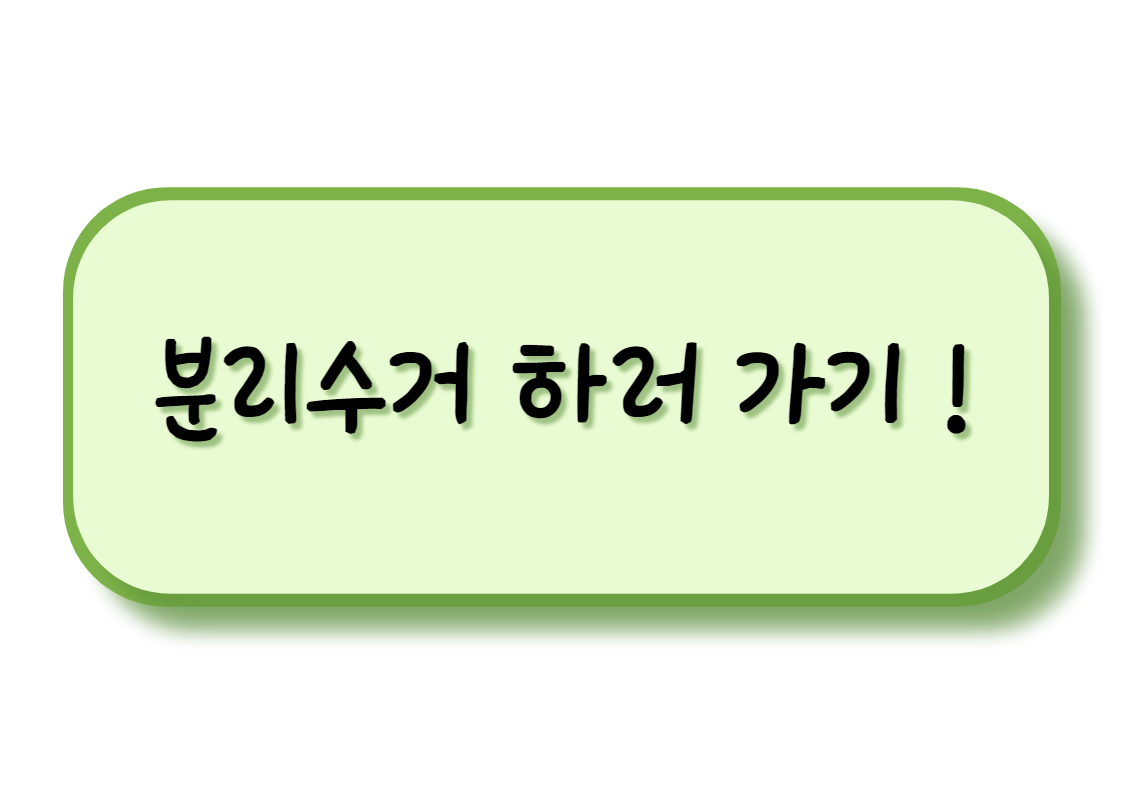
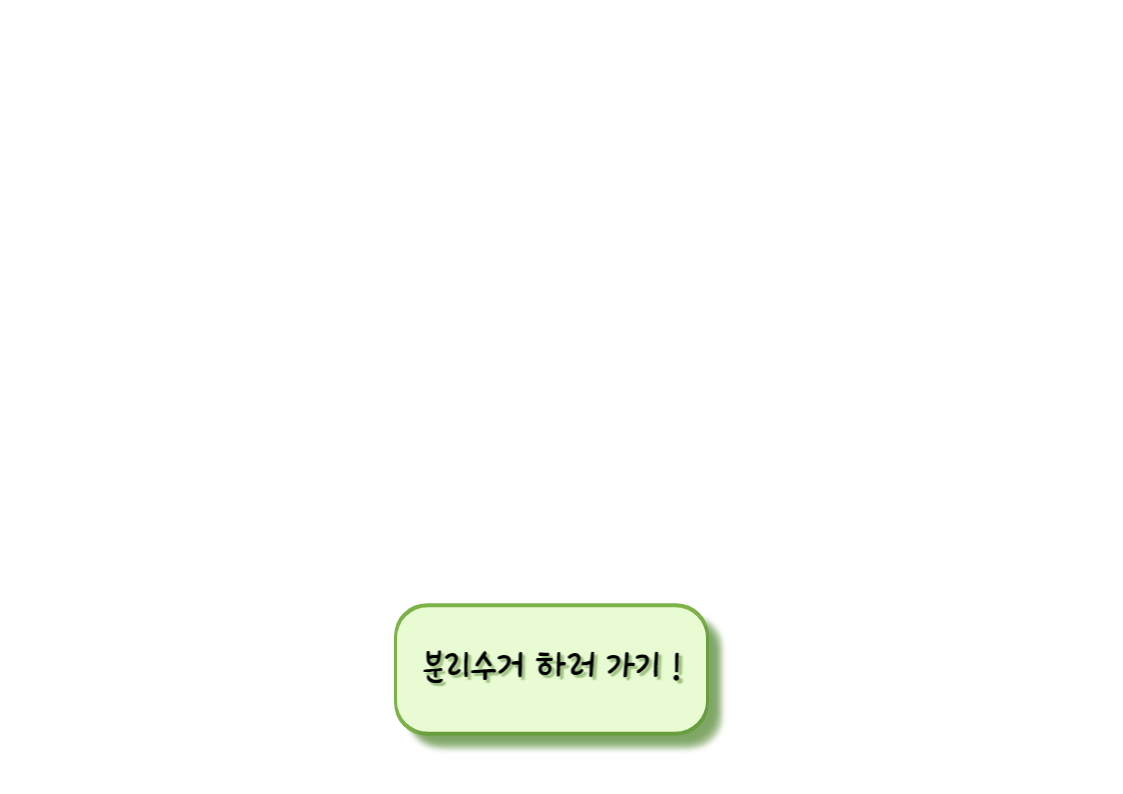
[S07P31D206-462] refactor - 해상도 변경에 따른 캔버스 크기 수정
Former-commit-id: 24fda686043ad5407752d6d0191ef0e3b90a4a40
Former-commit-id: 115b58521e07a557886e909cb2a37e83da72d76d

diff --git a/FE/green-earth/src/components/GamePage/GameRecycle.js b/FE/green-earth/src/components/GamePage/GameRecycle.js
@@ -27,8 +27,8 @@ export const GameRecycle = () => {
   //캔버스 관련 변수
 
   //가로 세로
-  const canvasWidth = 992;
-  const canvasHeight = 576;
+  const canvasWidth = 936;
+  const canvasHeight = 560;
 
   //현재 페이지
   const [nowPage, setnowPage] = useState("main");
@@ -43,56 +43,56 @@ export const GameRecycle = () => {
     {
       name: "파스퇴르",
       current: [0, 0], //현재좌표
-      loc1: [51, 42], //좌측 상단 모서리 좌표
-      loc2: [118, 228], //우측 하단 모서리 좌표
+      loc1: [50, 40], //좌측 상단 모서리 좌표
+      loc2: [125, 250], //우측 하단 모서리 좌표
       answer: 0,
       success: false,
     },
     {
       name: "아이시스",
       current: [0, 0], //현재좌표
-      loc1: [190, 100], //좌측 상단 모서리 좌표
-      loc2: [250, 250], //우측 하단 모서리 좌표
+      loc1: [165, 80], //좌측 상단 모서리 좌표
+      loc2: [220, 270], //우측 하단 모서리 좌표
       answer: 0,
       success: false,
     },
     {
       name: "떡볶이",
       current: [0, 0], //현재좌표
-      loc1: [290, 115], //좌측 상단 모서리 좌표
-      loc2: [440, 265], //우측 하단 모서리 좌표
+      loc1: [270, 120], //좌측 상단 모서리 좌표
+      loc2: [425, 255], //우측 하단 모서리 좌표
       answer: 1,
       success: false,
     },
     {
       name: "자일리톨",
       current: [0, 0], //현재좌표
-      loc1: [525, 25], //좌측 상단 모서리 좌표
-      loc2: [600, 146], //우측 하단 모서리 좌표
+      loc1: [485, 20], //좌측 상단 모서리 좌표
+      loc2: [560, 145], //우측 하단 모서리 좌표
       answer: 0,
       success: false,
     },
     {
       name: "자껍",
       current: [0, 0], //현재좌표
-      loc1: [640, 45], //좌측 상단 모서리 좌표
-      loc2: [755, 105], //우측 하단 모서리 좌표
+      loc1: [610, 40], //좌측 상단 모서리 좌표
+      loc2: [715, 125], //우측 하단 모서리 좌표
       answer: 0,
       success: false,
     },
     {
       name: "알약",
       current: [0, 0], //현재좌표
-      loc1: [590, 220], //좌측 상단 모서리 좌표
-      loc2: [680, 265], //우측 하단 모서리 좌표
+      loc1: [560, 210], //좌측 상단 모서리 좌표
+      loc2: [690, 270], //우측 하단 모서리 좌표
       answer: 1,
       success: false,
     },
     {
       name: "좋은 물",
       current: [0, 0], //현재좌표
-      loc1: [835, 70], //좌측 상단 모서리 좌표
-      loc2: [900, 260], //우측 하단 모서리 좌표
+      loc1: [785, 70], //좌측 상단 모서리 좌표
+      loc2: [850, 255], //우측 하단 모서리 좌표
       answer: 1,
       success: false,
     },
@@ -130,12 +130,12 @@ export const GameRecycle = () => {
   const mainPage = (ctx) => {
     //로고 그리기
     let mainlogo = new Image();
-    mainlogo.src = "/assets/games/main/recycle_cha.png";
-    ctx.drawImage(mainlogo, 100, 0, canvasWidth - 200, canvasHeight - 200);
+    mainlogo.src = "/assets/games/main/recycleMainLogo.png";
+    ctx.drawImage(mainlogo, 0, 0, canvasWidth, canvasHeight);
 
     //게임 설명
     let subtitle = new Image();
-    subtitle.src = "/assets/games/main/subtitle.png";
+    subtitle.src = "/assets/games/main/recycleDisc.png";
     ctx.drawImage(subtitle, 0, 0, canvasWidth, canvasHeight);
 
     //시작 버튼
@@ -145,10 +145,10 @@ export const GameRecycle = () => {
     canvas.onmousedown = (e) => {
       console.log(e.offsetX, e.offsetY);
       if (
-        e.offsetX > 375 &&
-        e.offsetX < 615 &&
-        e.offsetY > 445 &&
-        e.offsetY < 545
+        e.offsetX > 330 &&
+        e.offsetX < 590 &&
+        e.offsetY > 420 &&
+        e.offsetY < 515
       ) {
         setButtonSrc("/assets/games/main/clickedButton.png");
       }
@@ -161,13 +161,7 @@ export const GameRecycle = () => {
     };
 
     startButton.src = buttonSrc;
-    ctx.drawImage(
-      startButton,
-      360,
-      400,
-      270,
-      startButton.height * (270 / startButton.width)
-    );
+    ctx.drawImage(startButton, 0, 0, canvasWidth, canvasHeight);
   };
 
   const gamePage = (ctx) => {
@@ -190,13 +184,9 @@ export const GameRecycle = () => {
     ctx.drawImage(lifeImage, 0, 0, canvasWidth, canvasHeight);
 
     //분류 창
-    let recycle = new Image();
-    recycle.src = "/assets/games/game/recycleAnswer.png";
-    ctx.drawImage(recycle, -175, 275, canvasWidth - 200, canvasHeight - 150);
-
     let waste = new Image();
-    waste.src = "/assets/games/game/wasteAnswer.png";
-    ctx.drawImage(waste, 375, 275, canvasWidth - 200, canvasHeight - 150);
+    waste.src = "/assets/games/game/waste.png";
+    ctx.drawImage(waste, 0, 0, canvasWidth, canvasHeight);
 
     //파스퇴르
     //51 ,42
@@ -309,6 +299,7 @@ export const GameRecycle = () => {
 
     const canvas = canvasRef.current;
     canvas.onmousedown = (e) => {
+      console.log(e.offsetX, e.offsetY);
       let items_tmp = items;
       let _selected = -1;
       for (let i = 0; i < 7; i++) {
@@ -354,10 +345,10 @@ export const GameRecycle = () => {
         ]);
 
         if (
-          e.offsetX > 25 &&
-          e.offsetX < 375 &&
-          e.offsetY > 400 &&
-          e.offsetY < 575
+          e.offsetX > 0 &&
+          e.offsetX < 380 &&
+          e.offsetY > 300 &&
+          e.offsetY < 550
         ) {
           //분리수거 하기에다가 놓은 경우
           if (items_tmp[_selected].answer == 0) {
@@ -371,10 +362,10 @@ export const GameRecycle = () => {
             alert("다시 생각해 보세요!");
           }
         } else if (
-          e.offsetX > 575 &&
-          e.offsetX < 990 &&
-          e.offsetY > 400 &&
-          e.offsetY < 575
+          e.offsetX > 550 &&
+          e.offsetX < 935 &&
+          e.offsetY > 300 &&
+          e.offsetY < 550
         ) {
           //다시 가져가기에다가 놓은 경우
 
@@ -418,13 +409,13 @@ export const GameRecycle = () => {
 
   const descriptionPage = (ctx) => {
     let descItems = [
-      "파스퇴르_설명.png",
-      "아이시스_설명.png",
-      "떡볶이_설명.png",
-      "자일리톨_설명.png",
-      "자껍_설명.png",
-      "알약_설명.png",
-      "좋은물_설명.png",
+      "description.png",
+      "description.png",
+      "description.png",
+      "description.png",
+      "description.png",
+      "description.png",
+      "description.png",
     ];
     let descBackg = new Image();
     descBackg.src = "/assets/games/description/" + descItems[descNum];
@@ -436,10 +427,10 @@ export const GameRecycle = () => {
       //738 , 387
       //801 , 448
       if (
-        e.offsetX > 890 &&
-        e.offsetX < 960 &&
-        e.offsetY > 470 &&
-        e.offsetY < 540
+        e.offsetX > 760 &&
+        e.offsetX < 880 &&
+        e.offsetY > 40 &&
+        e.offsetY < 130
       ) {
         setnowPage("game");
       }
@@ -482,8 +473,8 @@ export const GameRecycle = () => {
       <canvas
         ref={canvasRef}
         className={classes.mygame}
-        width={992}
-        height={576}
+        width={936}
+        height={560}
       />
 
       {!life && (

diff --git a/FE/green-earth/src/components/GamePage/GamePicture.js b/FE/green-earth/src/components/GamePage/GamePicture.js
@@ -50,8 +50,8 @@ export const GamePicture = () => {
   //캔버스 관련 변수
 
   //가로 세로
-  const canvasWidth = 992;
-  const canvasHeight = 576;
+  const canvasWidth = 936;
+  const canvasHeight = 560;
 
   //현재 페이지
   const [nowPage, setnowPage] = useState("main");
@@ -446,8 +446,8 @@ export const GamePicture = () => {
       <canvas
         ref={canvasRef}
         className={classes.mygame}
-        width={992}
-        height={576}
+        width={936}
+        height={560}
       />
 
       {!life && <PictureFailModal setnowPage={setnowPage} setLife={setLife} />}
